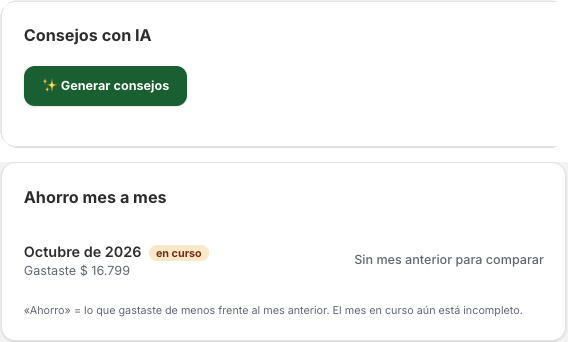
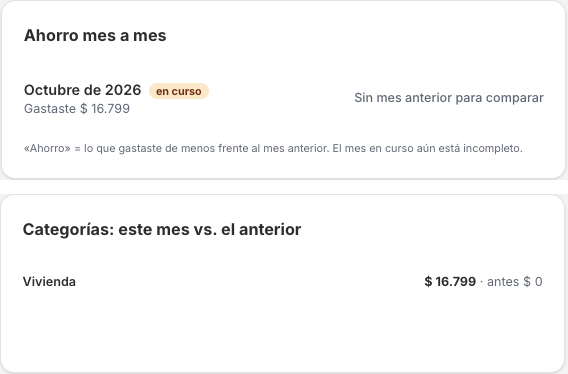
Quitar la funcionalidad de IA con Gemini (consejos, acción, cliente y variables)

diff --git a/src/lib/ahorro.ts b/src/lib/ahorro.ts
@@ -1,4 +1,4 @@
-import { etiquetaCategoria, nombreDelMes, totalPorCategoria } from "@/lib/gastos";
+import { totalPorCategoria } from "@/lib/gastos";
 import type { Categoria, Gasto } from "@/types/gasto";
 
 export interface FilaMes {
@@ -34,42 +34,9 @@ export function cambiosPorCategoria(actual: Gasto[], anterior: Gasto[]): CambioC
   }));
 }
 
-/** Datos que se resumen para la IA: solo cifras y nombres de categoría, nunca texto escrito por el usuario. */
+/** Lo que muestra la pantalla «Mi ahorro»: meses recientes y categorías del mes en curso vs. el anterior. */
 export interface ResumenAhorro {
   mesActual: string;
   filas: FilaMes[];
   categorias: CambioCategoria[];
-}
-
-export function textoParaIA(r: ResumenAhorro): string {
-  const filas = r.filas.map((f) => `- ${nombreDelMes(f.mes)}${f.enCurso ? " (mes en curso, incompleto)" : ""}: gastó ${Math.round(f.total)} COP`).join("\n");
-  const cats = r.categorias
-    .map((c) => `- ${etiquetaCategoria(c.categoria)}: este mes ${Math.round(c.actual)} COP, mes anterior ${Math.round(c.anterior)} COP`)
-    .join("\n");
-  return `Gasto total por mes (pesos colombianos):\n${filas}\n\nGasto por categoría (mes en curso vs. mes anterior):\n${cats || "- sin datos"}`;
-}
-
-/** Consejos calculados sin IA, para cuando no hay clave de Gemini o el servicio falla. */
-export function consejosPorReglas(r: ResumenAhorro): string[] {
-  const moneda = (n: number) => new Intl.NumberFormat("es-CO", { style: "currency", currency: "COP", maximumFractionDigits: 0 }).format(n);
-  const consejos: string[] = [];
-  const completos = r.filas.filter((f) => !f.enCurso && f.ahorro !== null);
-  const ultimo = completos[completos.length - 1];
-  if (ultimo && ultimo.ahorro !== null) {
-    consejos.push(
-      ultimo.ahorro >= 0
-        ? `En ${nombreDelMes(ultimo.mes)} gastaste ${moneda(ultimo.ahorro)} menos que el mes anterior. Buen trabajo, mantén ese ritmo.`
-        : `En ${nombreDelMes(ultimo.mes)} gastaste ${moneda(-ultimo.ahorro)} más que el mes anterior. Revisa en qué categorías creció.`,
-    );
-  }
-  const sube = r.categorias.filter((c) => c.anterior > 0 && c.actual > c.anterior).sort((a, b) => b.actual - b.anterior - (a.actual - a.anterior))[0];
-  if (sube) {
-    consejos.push(`${etiquetaCategoria(sube.categoria)} ya va en ${moneda(sube.actual)} este mes, más que los ${moneda(sube.anterior)} del mes pasado. Es un buen lugar para recortar.`);
-  }
-  const mayor = [...r.categorias].sort((a, b) => b.actual - a.actual)[0];
-  if (mayor && mayor.actual > 0) {
-    consejos.push(`Tu mayor gasto del mes es ${etiquetaCategoria(mayor.categoria)} (${moneda(mayor.actual)}). Usa «Recomendar compras» para comparar precios antes de comprar.`);
-  }
-  if (consejos.length === 0) consejos.push("Registra tus gastos durante el mes y aquí verás cuánto ahorras frente al mes anterior.");
-  return consejos;
 }

diff --git a/src/components/panel/Ahorro.tsx b/src/components/panel/Ahorro.tsx
@@ -1,43 +1,26 @@
-import Link from "next/link";
 import { connection } from "next/server";
-import { AsesorIA } from "@/components/panel/AsesorIA";
 import { Tarjeta, TituloPagina } from "@/components/panel/TituloPagina";
 import { cargarResumenAhorro } from "@/app/panel/ahorro/datos";
 import { formatearMoneda } from "@/lib/format";
 import { etiquetaCategoria, nombreDelMes } from "@/lib/gastos";
 
-/** Cuánto se ahorró (o gastó de más) cada mes y consejos de la IA. */
+/** Cuánto se ahorró (o gastó de más) cada mes frente al anterior. */
 export async function Ahorro() {
   await connection();
   const { resumen, error } = await cargarResumenAhorro();
   const primero = resumen.filas.findIndex((f) => f.total > 0);
   const filas = (primero === -1 ? [] : resumen.filas.slice(primero)).reverse();
-  const hayDatos = resumen.filas.some((f) => f.total > 0);
   const mejoran = resumen.categorias.filter((c) => c.anterior > c.actual).sort((a, b) => b.anterior - b.actual - (a.anterior - a.actual));
 
   return (
     <div className="mx-auto max-w-7xl">
-      <TituloPagina titulo="Mi ahorro" subtitulo="Compara cada mes con el anterior y recibe consejos para gastar mejor." />
+      <TituloPagina titulo="Mi ahorro" subtitulo="Compara cada mes con el anterior y mira cuánto has ahorrado." />
 
       {error && (
         <p role="alert" className="mb-6 rounded-xl bg-amber-50 px-5 py-4 text-sm text-amber-900">
           No pudimos cargar tus gastos. Revisa que las migraciones de Supabase estén ejecutadas.
         </p>
       )}
-
-      <Tarjeta titulo="Consejos con IA" className="mb-6">
-        {hayDatos ? (
-          <AsesorIA />
-        ) : (
-          <p className="text-sm text-muted">
-            Aún no hay gastos para analizar.{" "}
-            <Link href="/panel/registrar" className="font-bold text-brand-700 hover:underline">
-              Registra el primero
-            </Link>
-            .
-          </p>
-        )}
-      </Tarjeta>
 
       <div className="grid gap-6 lg:grid-cols-2">
         <Tarjeta titulo="Ahorro mes a mes">

diff --git a/src/app/(sitio)/ayuda/page.tsx b/src/app/(sitio)/ayuda/page.tsx
@@ -8,7 +8,7 @@ const preguntas = [
   { p: "¿Quién puede ver mis gastos?", r: "Solo tú. Cada usuario tiene su propio espacio privado y nadie más puede ver tus datos." },
   { p: "¿Cómo registro un gasto?", r: "En el portal, entra a «Registrar gasto» y completa qué compraste, el valor, la fecha y la categoría. La tienda es opcional." },
   { p: "¿Cómo comparo precios de un producto?", r: "En «Recomendar compras» busca el producto. Verás el precio en distintas tiendas y puedes registrar la compra directamente." },
-  { p: "¿Qué es «Mi ahorro»?", r: "Compara cada mes con el anterior y te da consejos con inteligencia artificial para gastar mejor." },
+  { p: "¿Qué es «Mi ahorro»?", r: "Compara cada mes con el anterior y te muestra cuánto ahorraste o gastaste de más, en total y por categoría." },
   { p: "No me deja guardar un gasto, ¿qué hago?", r: "Si aparece el aviso «Falta crear la tabla de gastos» o «Falta actualizar la base de datos», faltan migraciones por ejecutar en Supabase." },
 ];
 

diff --git a/src/app/(sitio)/contacto/page.tsx b/src/app/(sitio)/contacto/page.tsx
@@ -88,7 +88,7 @@ export default function ContactoPage() {
 
             <div className="rounded-2xl bg-neutral-800 p-6 text-white shadow-sm">
               <h2 className="font-bold">¿Buscas una respuesta rápida?</h2>
-              <p className="mt-2 text-sm leading-relaxed text-neutral-300">Revisa las preguntas frecuentes sobre registros, precios y consejos de ahorro.</p>
+              <p className="mt-2 text-sm leading-relaxed text-neutral-300">Revisa las preguntas frecuentes sobre registros, precios y ahorro.</p>
               <Link
                 href="/ayuda"
                 className="mt-5 inline-flex items-center gap-2 rounded-[10px] bg-white px-4 py-2.5 text-sm font-bold text-neutral-900 transition-colors hover:bg-menta"

diff --git a/src/components/home/ComoFunciona.tsx b/src/components/home/ComoFunciona.tsx
@@ -1,7 +1,7 @@
 const pasos = [
   { numero: "1", titulo: "Crea tu cuenta", texto: "Regístrate gratis con tu correo. Tu espacio es solo tuyo y nadie más ve tus datos." },
   { numero: "2", titulo: "Registra tus gastos", texto: "Anota en qué gastaste, cuánto y dónde. Si buscas el producto en el comparador, la compra se llena sola." },
-  { numero: "3", titulo: "Entiende y ahorra", texto: "Mira tus gastos por categoría, compara tus meses y recibe consejos para gastar mejor." },
+  { numero: "3", titulo: "Entiende y ahorra", texto: "Mira tus gastos por categoría, compara tus meses y mira cuánto ahorras." },
 ];
 
 export function ComoFunciona() {

diff --git a/src/components/home/Funciones.tsx b/src/components/home/Funciones.tsx
@@ -15,9 +15,9 @@ const funciones: { numero: string; titulo: string; texto: string; imagen: { src:
   },
   {
     numero: "03",
-    titulo: "Ahorro y consejos con IA",
-    texto: "Mira cuánto ahorras cada mes y recibe recomendaciones para gastar mejor.",
-    imagen: { src: "/funciones/ahorro-recorte.png", ancho: 568, alto: 342, alt: "Pantalla Mi ahorro con consejos de inteligencia artificial" },
+    titulo: "Ahorro mes a mes",
+    texto: "Compara cada mes con el anterior y mira cuánto has ahorrado.",
+    imagen: { src: "/funciones/ahorro-recorte.png", ancho: 568, alto: 374, alt: "Pantalla Mi ahorro con la comparación mensual" },
   },
 ];
 

diff --git a/src/components/home/Diferenciales.tsx b/src/components/home/Diferenciales.tsx
@@ -20,8 +20,8 @@ const items = [
     ),
   },
   {
-    titulo: "Consejos de ahorro con IA",
-    texto: "La inteligencia artificial analiza tus meses y te dice dónde puedes recortar y cuánto has ahorrado.",
+    titulo: "Mira cuánto ahorras cada mes",
+    texto: "Compara cada mes con el anterior y descubre en qué categorías gastas de más o de menos.",
     icono: (
       <Icono>
         <path d="M12 3l1.8 4.7L18.5 9.5l-4.7 1.8L12 16l-1.8-4.7L5.5 9.5l4.7-1.8z" />
